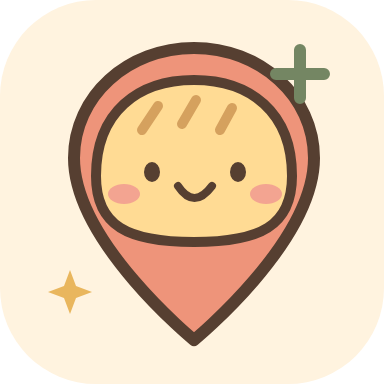
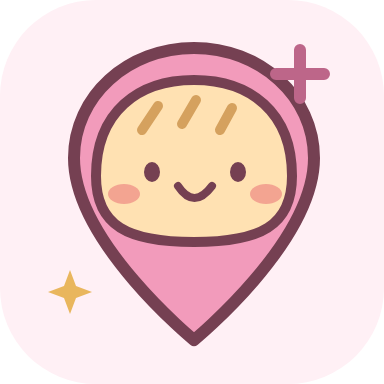
Redesign pink picnic UI with clear steps and playful motion

diff --git a/style.css b/style.css
@@ -1,2 +1,8 @@
 @import url('https://fonts.googleapis.com/css2?family=Noto+Sans+TC:wght@400;500;600;700;800;900&display=swap');
 :root{--ink:#45382f;--cream:#fff8ee;--orange:#e8784d;--pink:#f8d8cf;--green:#647c57;--line:#eadfce}*{box-sizing:border-box}body{margin:0;background:#eee7df;color:var(--ink);font-family:'Noto Sans TC',system-ui,sans-serif;font-size:14px}button,input,select{font:inherit}button,a,input,select{-webkit-tap-highlight-color:transparent}button{cursor:pointer;color:inherit}button:focus-visible,a:focus-visible,input:focus-visible,select:focus-visible{outline:3px solid #72985e;outline-offset:3px}.app{max-width:540px;margin:auto;background:var(--cream);min-height:100vh;box-shadow:0 0 80px #5b49351a}header{display:flex;align-items:center;justify-content:space-between;padding:25px 24px 8px}.brand{color:var(--ink);text-decoration:none;font-size:19px;font-weight:900;letter-spacing:.5px;position:relative}.logo{display:inline-grid;place-items:center;width:32px;height:32px;border:2px solid var(--ink);border-radius:11px;background:#ffd987;font-size:25px;transform:rotate(-9deg);margin-right:5px}.tiny{display:block;font-size:8px;letter-spacing:2px;margin-left:45px;margin-top:-1px;font-weight:700}.round{border:1px solid #e7dccc;border-radius:50%;width:43px;height:43px;background:#fffdf7;font-size:28px}main{padding:22px 23px 105px}.eyebrow{font-size:11px;letter-spacing:1px;color:#917864}.hero{display:flex;align-items:center;justify-content:space-between;position:relative;padding:5px 0 15px}h1{font-size:36px;line-height:1.45;letter-spacing:1px;margin:10px 0 8px;font-weight:900}h1 span{color:var(--orange);position:relative;white-space:nowrap}h1 span:after{content:'';position:absolute;bottom:-2px;left:0;width:100%;height:6px;border-top:2px solid #e8784d;border-radius:50%}.hero p{font-size:12px;line-height:1.9;color:#988371}.mascot{position:relative;width:150px;height:180px;margin-right:4px;flex-shrink:0}.bun{position:absolute;left:16px;top:24px;width:125px;height:105px;border:2.5px solid var(--ink);border-radius:65% 65% 40% 40%;background:#f8ce86;transform:rotate(10deg);box-shadow:inset -7px -7px #edb967}.bun:before{content:'﹏';position:absolute;top:1px;left:39px;font-size:36px;color:#aa7645}.bun i{position:absolute;top:52px;width:7px;height:9px;background:var(--ink);border-radius:50%;left:37px}.bun i:nth-child(2){left:83px}.bun b{position:absolute;left:56px;top:51px;font-size:26px;font-weight:400}.bun em{position:absolute;left:21px;top:65px;width:17px;height:9px;border-radius:50%;background:#ee9f8a;box-shadow:74px 0 #ee9f8a}.plate{position:absolute;width:152px;height:35px;top:115px;background:#d6e2c3;border:2px solid var(--ink);border-radius:50%;z-index:0}.bun{z-index:1}.spark{position:absolute;right:-1px;top:0;color:var(--orange);font-size:28px}.sticker{position:absolute;bottom:4px;left:22px;transform:rotate(-8deg);font-size:11px;background:#fae3a8;padding:5px 11px;border-radius:6px}.location{border:1px solid #e6ddcb;border-radius:18px;background:#f1efdf;width:100%;display:flex;align-items:center;gap:12px;padding:14px 16px;text-align:left}.location>span:first-child{font-size:28px;color:var(--green)}.location strong{display:block;font-size:13px}.location small{display:block;font-size:10px;color:#7f7b66;margin-top:4px}.arrow{margin-left:auto;font-size:20px}.demo-note{font-size:10px;line-height:1.8;color:#927c68;margin:15px 0 12px}.demo-note span{border:1px solid #dec5ac;border-radius:5px;padding:2px 5px;margin-right:5px}.search{display:flex;gap:9px;background:#fffef9;border:1.5px solid #e5d7c4;border-radius:16px;padding:7px 7px 7px 14px;box-shadow:0 4px 0 #efe4d5}.search>span{font-size:26px}.search input{width:100%;min-width:0;border:0;outline:none;background:none;font-size:12px;color:var(--ink)}.search button{border:0;border-radius:11px;background:var(--orange);color:white;white-space:nowrap;padding:10px 14px;font-size:12px;font-weight:700}.categories{display:flex;gap:9px;overflow-x:auto;scrollbar-width:none;margin:22px -23px 18px;padding:0 23px 5px}.categories button{flex-shrink:0;display:flex;flex-direction:column;gap:8px;align-items:center;border:1px solid #eaddca;background:#fffdf7;padding:12px 10px 10px;border-radius:17px;font-size:10px;min-width:74px}.categories button span{font-size:25px}.categories button.active{background:#f8dace;border:1.5px solid #d87c5c;box-shadow:0 3px 0 #e7b7a3}.filters{display:grid;grid-template-columns:1fr 1fr 1fr;gap:8px}.filters label{font-size:10px;color:#8c7867;min-width:0}.filters select{display:block;width:100%;margin-top:7px;padding:10px 4px;border:1px solid #e1d6c3;border-radius:10px;background:#fffdf7;color:var(--ink);font-size:11px;min-height:43px}.toggle-row{display:flex;justify-content:space-between;align-items:center;padding:18px 0 6px}.switch-label{display:flex;align-items:center;gap:7px;font-size:11px;cursor:pointer}.switch-label input{position:absolute;opacity:0}.switch{width:30px;height:18px;border-radius:20px;background:#cfc9be;position:relative}.switch:after{content:'';position:absolute;width:12px;height:12px;background:white;border-radius:50%;left:3px;top:3px;transition:transform .2s}.switch-label input:checked+.switch{background:var(--green)}.switch-label input:checked+.switch:after{transform:translateX(12px)}.switch-label input:focus-visible+.switch{outline:3px solid #e8784d}.toggle-row>button{border:0;background:none;color:#99816a;font-size:10px;min-height:40px}.results-heading{display:flex;align-items:center;justify-content:space-between;margin:17px 0}h2{font-size:19px;letter-spacing:.5px;margin:0}h2 span{color:var(--orange);font-size:23px}.results-heading p{font-size:10px;color:#9a8570;margin:6px 0 0}.sort{font-size:10px;color:#8e7b69}.card{border:1px solid #e5d9c5;border-radius:24px;background:#fffefa;overflow:hidden;margin-bottom:20px;box-shadow:0 5px 0 #ece0ce;animation:pop .25s ease}.art{height:135px;position:relative;overflow:hidden;display:flex;justify-content:center;align-items:center;background:var(--artbg)}.art:before,.art:after{content:'';position:absolute;border:1px dashed #ffffffa8;border-radius:50%;width:180px;height:180px;left:-100px;top:-90px}.art:after{left:auto;right:-100px;top:55px}.art .food{font-size:75px;filter:drop-shadow(0 6px 0 #5c3e2019);transform:rotate(-8deg);transition:transform .3s}.art:hover .food{transform:rotate(7deg) scale(1.08)}.art .caption{position:absolute;bottom:12px;left:15px;font-size:9px;color:#78604d;background:#fff8ecca;padding:4px 8px;border-radius:5px}.distance{position:absolute;left:15px;top:14px;border-radius:30px;background:#fffdf6;padding:6px 11px;font-size:11px;font-weight:700;box-shadow:0 2px 0 #0000000a}.heart{position:absolute;right:13px;top:12px;background:#fffdf5;border:0;border-radius:50%;width:36px;height:36px;font-size:24px;color:#bc624e}.card-body{padding:18px}.card-title{display:flex;align-items:center;justify-content:space-between;gap:8px}.card h3{font-size:20px;margin:0;font-weight:800}.status{font-size:9px;padding:5px 7px;border-radius:6px;color:#586f4a;background:#edf2e4;white-space:nowrap}.status.closed{color:#947a61;background:#f1e6d9}.tags{font-size:10px;color:#9b8270;margin:7px 0 15px}.price-row{display:flex;justify-content:space-between;align-items:center;padding:13px;background:#fff6e9;border-radius:12px;gap:8px}.meal{font-size:11px;line-height:1.8}.meal small{display:block;font-size:9px;color:#a08c76}.price{font-size:24px;color:#bf6843;white-space:nowrap;font-weight:800}.facts{display:grid;grid-template-columns:1fr 1fr;gap:7px;font-size:10px;color:#8d7a68;margin:14px 0}.facts b{font-weight:500;color:#5c5749;display:block;margin-top:4px}.actions{display:flex;gap:8px}.actions button,.actions a{flex:1;min-height:44px;border-radius:12px;border:1px solid #e6dac7;background:#fffdf7;display:flex;align-items:center;justify-content:center;text-decoration:none;font-size:12px;font-weight:600;color:var(--ink)}.actions .go{background:var(--green);color:white;border-color:var(--green)}.swap{width:100%;background:none;border:0;padding:12px 0 0;color:#9c836d;font-size:10px;min-height:35px}.real-search{display:flex;align-items:flex-start;gap:12px;background:#f4e7dc;padding:18px;border-radius:18px;margin-top:25px}.real-search>span{font-size:28px}.real-search h3{font-size:13px;margin:0 0 7px}.real-search p{font-size:11px;line-height:1.8;color:#947f6d;margin:0}.real-search button{background:none;border:0;padding:10px 0 0;font-size:11px;color:#a55e40;font-weight:700;min-height:40px}footer{text-align:center;font-size:10px;line-height:1.9;color:#aa9580;padding-top:35px}footer span{font-size:9px}.bottom{position:fixed;bottom:0;left:50%;transform:translateX(-50%);width:min(100%,540px);display:flex;justify-content:space-around;backdrop-filter:blur(20px);background:#fff9efed;border-top:1px solid #eadcc7;padding:10px 20px max(12px,env(safe-area-inset-bottom));z-index:5}.bottom button{border:0;background:none;display:flex;flex-direction:column;align-items:center;gap:4px;font-size:24px;width:90px;color:#a18b74}.bottom button span{font-size:9px}.bottom button.selected{color:#b66546}.empty{text-align:center;padding:30px 15px;border:1px dashed #decab0;border-radius:20px}.empty>span{font-size:42px}.empty h3{font-size:17px}.empty p{font-size:12px;color:#8a7967}.empty button{border:0;background:#e8784d;color:white;border-radius:12px;padding:13px;font-size:12px}.empty[hidden]{display:none}dialog{border:0;border-radius:25px 25px 0 0;max-width:540px;width:100%;max-height:88dvh;margin:auto auto 0;padding:28px 24px 35px;background:var(--cream);color:var(--ink)}dialog::backdrop{background:#3e302a70;backdrop-filter:blur(3px)}.handle{width:38px;height:4px;border-radius:10px;background:#d3c3ad;margin:-15px auto 25px}.close{position:absolute;right:14px;top:12px;width:40px;height:40px;border:0;background:none;font-size:30px}.sheet-head{font-size:25px;margin:0 0 7px}.sheet-note{font-size:11px;line-height:1.8;color:#9b7e64}.menu-row{display:flex;justify-content:space-between;padding:16px 2px;border-bottom:1px solid #e6dbc9;font-size:14px}.sheet-block{padding:16px;background:white;border-radius:14px;margin-top:15px;font-size:12px;line-height:2}.sheet-link{display:block;text-align:center;text-decoration:none;background:var(--green);color:white;padding:15px;border-radius:12px;margin-top:20px}#toast{position:fixed;bottom:105px;left:50%;transform:translateX(-50%) translateY(15px);background:#493d32;color:white;border-radius:13px;padding:12px 17px;font-size:12px;z-index:20;opacity:0;pointer-events:none;max-width:90%;text-align:center;transition:.2s}#toast.show{opacity:1;transform:translateX(-50%) translateY(0)}@keyframes pop{from{opacity:0;transform:translateY(6px)}to{opacity:1;transform:translateY(0)}}@media(min-width:760px){.app{margin:24px auto;border:1px solid #e4d4be;border-radius:32px 32px 0 0;overflow:hidden}h1{font-size:42px}.mascot{margin-right:15px}main{padding-left:28px;padding-right:28px}}@media(prefers-reduced-motion:reduce){*{animation:none!important;transition:none!important}}
+
+/* Pink picnic, v2 — clearer steps, gentle motion, thumb-friendly controls. */
+:root{--ink:#613c4e;--cream:#fff4f7;--orange:#cb537f;--pink:#f7d5e2;--green:#b34a75;--line:#efd3df}body{background:#f6dfeb;color:var(--ink)}.app{background:radial-gradient(circle at 90% 4%,#ffe1ed 0,transparent 330px),#fff5f8;box-shadow:0 12px 80px #a9557d16}header{padding:20px 22px 8px}.header-tools{display:flex;gap:8px}.brand{font-size:18px}.logo{border:0;transform:rotate(-6deg);border-radius:9px;width:35px;height:35px;background:none}.tiny{font-size:7px;color:#a46c85;letter-spacing:2.5px}.round{border-color:#e8c6d6;background:#fffafb;color:#aa4f78;width:40px;height:40px}.motion-control{font-size:22px}main{padding:18px 20px 110px}.eyebrow{font-size:9px;color:#ad718c;letter-spacing:2px;display:flex;align-items:center;gap:7px}.mini-heart{font-size:13px;color:#cb537f;display:inline-block;animation:heartBeat 4s infinite}.hero{padding:8px 0 18px;min-height:154px}.hero>div:first-child{z-index:1}h1{font-size:28px;line-height:1.6;margin:9px 0;letter-spacing:.2px}h1 span{color:#c54a7c}h1 span:after{border-color:#eb9dbb;bottom:-1px}.hero p{font-size:10px;color:#9e7286;margin:12px 0 0}.mascot{border:0;background:none;position:relative;width:120px;height:145px;margin-right:-1px;flex-shrink:0;padding:0;animation:floatBun 4.8s ease-in-out infinite}.bun{width:99px;height:82px;left:13px;top:22px;border-color:#754052;border-width:2px;background:#ffe0b3;box-shadow:inset -5px -5px #f3c88f;transform:rotate(9deg)}.bun:before{font-size:29px;top:0;left:29px}.bun i{top:40px;left:27px;width:6px;height:7px;background:#754052}.bun i:nth-child(2){left:66px}.bun b{top:38px;left:44px;font-size:22px;color:#754052}.bun em{top:51px;left:14px;width:15px;height:8px;background:#ef9eb4;box-shadow:61px 0 #ef9eb4}.plate{width:121px;height:28px;top:92px;left:0;border-color:#8b4f68;background:#f2c5d8}.sticker{bottom:0;left:20px;color:#995374;background:#ffe3ed;border:1px solid #e8b8cc;padding:5px 9px;font-size:9px}.spark{color:#d76a99;right:-1px;font-size:23px;animation:twinkle 3.3s infinite}.step-label{display:flex;align-items:center;gap:8px;font-size:12px;font-weight:700;margin-bottom:11px;letter-spacing:.3px}.step-label>b,.step-number{display:inline-grid;place-items:center;background:#f6d4e2;color:#9d4066;width:24px;height:24px;border-radius:8px;font-size:10px}.location{background:#fffaff;border:1.5px solid #edcadd;box-shadow:0 3px 0 #f4dce8;border-radius:16px;padding:12px 14px;margin-bottom:16px}.location>span:first-child{color:#b34a75;background:#f8e2ed;border-radius:12px;width:38px;height:38px;text-align:center;line-height:38px;font-size:27px}.location strong{font-size:12px}.location small{font-size:10px;color:#956c83}.arrow{color:#b34a75}.demo-note{font-size:10px;color:#96677e;margin:14px 0;line-height:1.9}.demo-note span{background:#fff7fb;color:#a24f76;border-color:#dfadc4}.finder-panel{background:#ffffffbf;border:1px solid #efd3df;border-radius:23px;padding:17px 14px 15px;box-shadow:0 5px 0 #f5e2eb}.finder-panel>.step-label{margin:0 0 13px}.search{background:#fffafd;border:1.5px solid #eab4ce;box-shadow:0 3px 0 #f5dce8;border-radius:13px;gap:5px;padding:5px 5px 5px 10px}.search>span{color:#ba5b83}.search input{font-size:11px}.search input::placeholder{color:#ab8798}.search button{background:#be4e7c;border-radius:9px;min-width:53px;min-height:40px;font-size:11px}.categories{display:grid;grid-template-columns:repeat(5,minmax(0,1fr));gap:5px;margin:18px 0;padding:0 0 4px;overflow:visible}.categories button{min-width:0;padding:10px 1px 8px;gap:7px;font-size:9px;border:1px solid #efd6e3;border-radius:13px;background:#fff9fc;transition:transform .18s,background .18s}.categories button span{font-size:23px;line-height:1.2}.categories button.active{background:#fce0ed;border:1.5px solid #cd759a;box-shadow:0 3px 0 #e8b2ca;color:#a13764;font-weight:700}.filter-intro{font-size:11px;font-weight:700;margin:3px 0 10px;display:flex;justify-content:space-between}.filter-intro span{font-size:9px;color:#a1748b;font-weight:400}.filters{gap:7px}.filters label{font-size:9px;color:#93637a}.filters select{border:1px solid #e8c8d8;background:#fffafd;color:#603c4d;font-size:10px;padding:9px 3px;min-height:43px}.toggle-row{padding:12px 0 3px}.switch-label{font-size:10px}.switch-label input:checked+.switch{background:#bc5482}.toggle-row>button{color:#a2738a}.show-results{display:flex;align-items:center;justify-content:center;gap:6px;width:100%;min-height:46px;border:0;border-radius:13px;background:#bf4f7c;color:white;font-weight:700;font-size:12px;box-shadow:0 4px 0 #9b3d64}.show-results>span{background:#ffffff24;padding:2px 7px;border-radius:6px}.show-results>b{margin-left:auto;font-size:18px;font-weight:400}.show-results:before{content:'✧';font-size:17px;margin-right:auto}.active-filters{display:flex;gap:5px;margin-top:20px;flex-wrap:wrap}.active-filters span{border:1px solid #e4bed0;border-radius:20px;color:#9f5378;font-size:9px;padding:4px 8px;background:#fffafd}.results-heading{scroll-margin-top:15px;margin:16px 0}.results-heading h2{display:flex;gap:7px;align-items:center;font-size:17px}.results-heading h2>span:last-child{color:#cb6d96}.results-heading p{color:#95677e;font-size:9px}.sort{font-size:9px;color:#966c82}.card{border:1px solid #ecc9da;border-radius:22px;box-shadow:0 5px 0 #efdbe6;margin-bottom:20px;animation:cardArrive .3s ease-out}.card:nth-child(2){animation-delay:.04s}.card:nth-child(3){animation-delay:.08s}.art{height:118px;background:radial-gradient(ellipse at center,#fff6f9 0,transparent 65%),linear-gradient(140deg,#fce2ed,var(--artbg));background-blend-mode:normal}.art:before,.art:after{border-color:#fff9;opacity:.8}.art .food{font-size:66px;filter:drop-shadow(0 5px 0 #ad507018)}.distance{background:#fffcfe;color:#97476e;font-size:10px;border:1px solid #ecc6d8}.heart{width:38px;height:38px;color:#b94c7c;background:#fff9fd;box-shadow:0 2px 6px #a6517520}.heart[aria-pressed=true]{background:#c45481;color:white}.art .caption{background:#fff7fbcd;color:#936b7e;font-size:8px}.card-body{padding:16px}.card-title{align-items:flex-start}.card h3{font-size:18px;line-height:1.6}.status{font-size:8px;color:#4d694b;background:#eaf3e7;line-height:1.8;margin-top:3px}.tags{font-size:10px;color:#9c6e83;margin:5px 0 13px}.price-row{background:#fff0f5;padding:12px;border-radius:12px}.meal{font-size:11px;color:#6f4358}.meal small{color:#a36e89;font-size:9px}.price{color:#b74475;font-size:26px}.facts{font-size:10px;color:#9a7388;gap:8px}.facts>div{background:#fcf7fa;border-radius:9px;padding:8px}.facts b{color:#79556a;font-size:10px;line-height:1.7}.actions button,.actions a{border:1px solid #e4bdd0;background:#fff9fc;color:#91446a;border-radius:11px;min-height:45px;font-size:11px}.actions .go{background:#b64b79;border-color:#b64b79;color:white}.swap{font-size:10px;color:#9d5f7e;padding-top:13px;min-height:40px}.real-search{background:#f7e0ec;border:1px solid #eac3d7;border-radius:20px}.real-search p{color:#95667f}.real-search button{color:#a24470}.real-search h3{font-size:12px}footer{color:#a97790}footer span{color:#a58194}.bottom{background:#fff8fceb;border-color:#edcade;border-radius:21px 21px 0 0;box-shadow:0 -6px 24px #c0648c0c;padding-top:10px}.bottom button{color:#ad7c94;border-radius:13px;font-size:22px;min-height:46px}.bottom button span{font-size:10px}.bottom button.selected{color:#ab3d6c;background:#f9e4ed}.empty{border-color:#d99eba;background:#fff7fb}.empty button{background:#b94c7b}.empty p{color:#966b82}dialog{background:#fff7fb;color:#613c4e;border:1px solid #ecc5d8;border-bottom:0;padding:28px 22px 30px;border-radius:26px 26px 0 0;animation:sheetUp .22s ease-out}dialog::backdrop{background:#67384d65;backdrop-filter:blur(4px)}.handle{background:#e5b8cc}.close{color:#a74a76;min-width:44px;min-height:44px}.sheet-head{font-size:22px;padding-right:18px}.sheet-note{color:#9a6980}.menu-row{border-color:#edcfde}.menu-row b{color:#b24a77}.sheet-block{border:1px solid #f0d9e4;background:#fffdfe}.sheet-link{background:#b54b79;min-height:48px}.sheet-block summary{cursor:pointer;min-height:30px}#toast{background:#7c3c5b;box-shadow:0 4px 20px #ac618f30}.sprinkle{position:fixed;z-index:99;pointer-events:none;font-size:18px;animation:sprinkleOut .8s ease-out forwards;line-height:1}.boop{animation:boopBun .5s ease!important}button{touch-action:manipulation}button:not(:disabled):active,.actions a:active{transform:scale(.965)}button:disabled{opacity:.7;cursor:wait}button:focus-visible,a:focus-visible,input:focus-visible,select:focus-visible{outline:3px solid #b44f7b;outline-offset:3px}.search:focus-within{box-shadow:0 0 0 3px #f2c9dc}.switch-label input:focus-visible+.switch{outline-color:#b44f7b}.quiet-motion *{animation:none!important;transition:none!important;scroll-behavior:auto!important}@keyframes floatBun{0%,100%{transform:translateY(0) rotate(-2deg)}50%{transform:translateY(-5px) rotate(1deg)}}@keyframes twinkle{0%,80%,100%{opacity:1;transform:scale(1)}90%{opacity:.6;transform:scale(.7)}}@keyframes heartBeat{0%,86%,100%{transform:scale(1)}90%{transform:scale(1.2)}94%{transform:scale(1)}}@keyframes sprinkleOut{0%{opacity:1;transform:translate(-50%,-50%) scale(.5)}100%{opacity:0;transform:translate(calc(-50% + var(--dx)),calc(-50% + var(--dy))) rotate(var(--rot)) scale(1.1)}}@keyframes boopBun{0%,100%{transform:scale(1)}35%{transform:scale(.9) rotate(-8deg)}70%{transform:scale(1.07) rotate(5deg)}}@keyframes cardArrive{from{transform:translateY(6px);opacity:.5}to{transform:translateY(0);opacity:1}}@keyframes sheetUp{from{transform:translateY(18px);opacity:.4}to{transform:translateY(0);opacity:1}}@media(min-width:760px){.app{border-color:#edc7da}.hero h1{font-size:34px}.mascot{margin-right:18px;width:140px}.finder-panel{padding:20px}.categories button{font-size:10px}.categories button span{font-size:26px}.filters label,.filters select{font-size:11px}}@media(max-width:350px){header{padding-left:16px;padding-right:16px}.brand{font-size:16px}.tiny{font-size:6px}.header-tools{gap:5px}.round{width:36px;height:36px}main{padding-left:15px;padding-right:15px}h1{font-size:23px}.mascot{transform:scale(.9);width:103px}.hero p{font-size:9px}.categories button{font-size:8px}.filters select{font-size:9px}.card h3{font-size:16px}.sort{font-size:8px}.results-heading h2{font-size:15px}}@media(prefers-reduced-motion:reduce){*,*:before,*:after{animation:none!important;transition:none!important;scroll-behavior:auto!important}.sprinkle{display:none}}
+.hero{overflow:hidden}.mascot .plate{max-width:100%}@media(max-width:350px){.mascot .bun{width:90px;left:7px}.mascot .bun i:nth-child(2){left:63px}.mascot .bun em{box-shadow:55px 0 #ef9eb4}.mascot .sticker{left:9px}}
+/* Keep the hit target still; animate only the illustration inside it. */
+.mascot{animation:none}.mascot .bun{animation:floatBun 4.8s ease-in-out infinite}.quiet-motion .mascot .bun{animation:none}@media(prefers-reduced-motion:reduce){.mascot .bun{animation:none}}

diff --git a/app.js b/app.js
@@ -13,18 +13,29 @@ function total(p){return p.price+($('dining').value==='dinein'?p.dineExtra:0)}
 function routeSearch(q){const url=new URL('https://www.google.com/maps/search/');url.searchParams.set('api','1');url.searchParams.set('query',q+(position?' near '+position.latitude+','+position.longitude:''));return url.href}
 function render(){const query=$('query').value.trim().toLowerCase(),budget=+$('budget').value,minutes=+$('minutes').value;
 const list=data.filter(p=>(category==='all'||p.category===category)&&(!query||query.split(/\s+/).every(w=>(p.name+p.keywords+p.category).toLowerCase().includes(w)))&&(!budget||total(p)<=budget)&&p.minutes<=minutes&&(!$('openOnly').checked||p.open)&&(!favoritesOnly||favorites.includes(p.id))&&!hidden.has(p.id)).sort((a,b)=>a.minutes-b.minutes);
-$('resultHeading').innerHTML=favoritesOnly?'我的口袋收藏 <span>♡</span>':'今天的口袋名單 <span>✿</span>';$('resultSummary').textContent=`${list.length} 家示範店家 · 依示範步行時間排序`;$('empty').hidden=list.length>0;
-$('cards').innerHTML=list.slice(0,3).map(p=>`<article class="card"><div class="art" style="--artbg:${p.color}"><span class="distance">🚶 ${p.minutes} 分鐘</span><span class="food" aria-hidden="true">${p.emoji}</span><span class="caption">食物插畫 · 非店家照片</span><button class="heart" data-favorite="${p.id}" aria-label="${favorites.includes(p.id)?'取消收藏':'收藏'}${p.name}" aria-pressed="${favorites.includes(p.id)}">${favorites.includes(p.id)?'♥':'♡'}</button></div><div class="card-body"><div class="card-title"><h3>${p.name}</h3><span class="status ${p.open?'':'closed'}">${p.open?'● 營業至 '+p.close:'已打烊'}</span></div><p class="tags">${p.tags} · 示範店家</p><div class="price-row"><div class="meal">${p.meal}<small>${$('dining').value==='dinein'&&p.dineExtra?'含必要飲品 $'+p.dineExtra:'一人份組合'} · 示範價格</small></div><span class="price">$${total(p)}</span></div><div class="facts"><div>低消<b>${p.min.replace('示範：','')}</b></div><div>等候狀況<b>未知 · 不保證免排隊</b></div></div><div class="actions"><button data-menu="${p.id}">📋 看菜單</button><button class="go" data-route="${p.id}">🧭 找真店</button></div><button class="swap" data-swap="${p.id}">不心動？換一家看看 ↻</button></div></article>`).join('');
+$('resultHeading').innerHTML=favoritesOnly?'我的口袋收藏 <span>♡</span>':'<span class="step-number">03</span> 心動口袋名單 <span>✿</span>';$('resultSummary').textContent=`${list.length} 家示範店家 · 依示範步行時間排序`;$('empty').hidden=list.length>0; const nextRange=[10,15,20,30].find(n=>n>minutes); $('expand').textContent=nextRange?'擴大至 '+nextRange+' 分鐘 →':'已到 30 分鐘，請調整其他條件'; $('expand').disabled=!nextRange; $('resultCount').textContent=list.length; $('showResults').setAttribute('aria-label','查看 '+list.length+' 家示範推薦'); $('activeFilters').replaceChildren(...[category==='all'?'全部口味':category,budget?'$'+budget+'內':'預算不限',minutes+'分內',$('dining').value==='dinein'?'內用':'外帶'].map(s=>{let el=document.createElement('span');el.textContent=s;return el}));
+$('cards').innerHTML=list.slice(0,3).map(p=>`<article class="card"><div class="art" style="--artbg:${p.color}"><span class="distance">🚶 ${p.minutes} 分鐘</span><span class="food" aria-hidden="true">${p.emoji}</span><span class="caption">食物插畫 · 非店家照片</span><button class="heart" data-favorite="${p.id}" aria-label="${favorites.includes(p.id)?'取消收藏':'收藏'}${p.name}" aria-pressed="${favorites.includes(p.id)}">${favorites.includes(p.id)?'♥':'♡'}</button></div><div class="card-body"><div class="card-title"><h3>${p.name}</h3><span class="status ${p.open?'':'closed'}">${p.open?'● 營業至 '+p.close:'已打烊'}</span></div><p class="tags">${p.tags} · 示範店家</p><div class="price-row"><div class="meal">${p.meal}<small>${$('dining').value==='dinein'&&p.dineExtra?'含必要飲品 $'+p.dineExtra:'一人份組合'} · 示範價格</small></div><span class="price">$${total(p)}</span></div><div class="facts"><div>🪙 低消<b>${p.min.replace('示範：','')}</b></div><div>⏱ 等候狀況<b>未知 · 不保證免排隊</b></div></div><div class="actions"><button data-menu="${p.id}">📋 看菜單</button><button class="go" data-route="${p.id}">🧭 地圖找店</button></div><button class="swap" data-swap="${p.id}">不心動？換一家看看 ↻</button></div></article>`).join('');
 $('saved').textContent=favoritesOnly?'♥':'♡';$('saved').setAttribute('aria-pressed',favoritesOnly);$('explore').classList.toggle('selected',!favoritesOnly);$('bottomSaved').classList.toggle('selected',favoritesOnly);
 }
 function sheet(html){$('sheetContent').innerHTML=html;$('sheet').showModal()}
 function menu(p){sheet(`<h2 class="sheet-head">${p.emoji} ${p.name}</h2><p class="sheet-note">示範菜單 · 所有品項與價格皆為虛構，不是店家報價。</p>${p.items.map(([name,price])=>`<div class="menu-row"><span>${name}</span><b>$${price}</b></div>`).join('')}<div class="sheet-block"><b>低消與一人花費</b><br>${p.min}<br>${$('dining').value==='dinein'?'內用':'外帶'}推薦組合總額 $${total(p)}${$('dining').value==='dinein'&&p.dineExtra?'（已含必要飲品）':''}<br>等候時間：未連接即時資料</div><details class="sheet-block"><summary>停車與資料來源</summary>${p.parking}<br>此店為互動示範，不提供真實地址、電話與導航。</details><a class="sheet-link" target="_blank" rel="noopener" href="${routeSearch(p.category)}">到 Google Maps 搜尋真實${p.category} ↗</a>`)}
 $('cards').addEventListener('click',e=>{let b=e.target.closest('button');if(!b)return;let id=b.dataset.favorite||b.dataset.menu||b.dataset.swap||b.dataset.route,p=data.find(x=>x.id===id);if(!p)return;if(b.dataset.favorite){favorites=favorites.includes(id)?favorites.filter(x=>x!==id):[...favorites,id];try{localStorage.setItem('pocket-bites-favorites',JSON.stringify(favorites))}catch{}render();toast(favorites.includes(id)?'已放進口袋 ♡':'已移出收藏')}else if(b.dataset.menu)menu(p);else if(b.dataset.route){sheet(`<h2 class="sheet-head">🧭 找真的好吃的</h2><p class="sheet-note">「${p.name}」是虛構示範店家，不能導航到不存在的店。</p><div class="sheet-block">接下來會打開 Google Maps，搜尋${position?'你的定位附近':'附近'}的「${p.category}」。營業、菜單與路程請以地圖結果確認。</div><a class="sheet-link" href="${routeSearch(p.category)}" target="_blank" rel="noopener">找附近${p.category} ↗</a>`)}else{hidden.add(id);render();toast('換個口味，其他條件幫你保留')}});
 document.querySelectorAll('[data-cat]').forEach(b=>b.addEventListener('click',()=>{category=b.dataset.cat;hidden.clear();document.querySelectorAll('[data-cat]').forEach(x=>{x.classList.toggle('active',x===b);x.setAttribute('aria-pressed',x===b)});render()}));
-['budget','minutes','dining','openOnly'].forEach(id=>$(id).addEventListener('change',()=>{hidden.clear();render()}));$('searchForm').addEventListener('submit',e=>{e.preventDefault();hidden.clear();render();$('cards').scrollIntoView({behavior:'smooth',block:'start'})});$('query').addEventListener('input',()=>{hidden.clear();render()});
+['budget','minutes','dining','openOnly'].forEach(id=>$(id).addEventListener('change',()=>{hidden.clear();render()}));$('searchForm').addEventListener('submit',e=>{e.preventDefault();hidden.clear();render();$('resultsTop').scrollIntoView({behavior:motionEnabled()?'smooth':'instant',block:'start'})});$('query').addEventListener('input',()=>{hidden.clear();render()});
 function setSaved(v){favoritesOnly=v;hidden.clear();render();$('resultHeading').scrollIntoView({behavior:'smooth',block:'center'})}$('saved').onclick=()=>setSaved(!favoritesOnly);$('bottomSaved').onclick=()=>setSaved(true);$('explore').onclick=()=>setSaved(false);
 $('reset').onclick=()=>{category='all';favoritesOnly=false;hidden.clear();$('query').value='';$('budget').value='200';$('minutes').value='10';$('dining').value='takeout';$('openOnly').checked=true;document.querySelectorAll('[data-cat]').forEach(x=>{x.classList.toggle('active',x.dataset.cat==='all');x.setAttribute('aria-pressed',x.dataset.cat==='all')});render();toast('已重設，重新找點快樂')};
 $('expand').onclick=()=>{let current=+$('minutes').value,next=[10,15,20,30].find(n=>n>current);if(next){$('minutes').value=next;hidden.clear();render();toast('擴大至 '+next+' 分鐘，其他條件不變')}else toast('已到 30 分鐘，試試調整其他條件或重設')};
 $('closeSheet').onclick=()=>$('sheet').close();$('sheet').addEventListener('click',e=>{if(e.target===$('sheet')){const r=$('sheet').getBoundingClientRect();if(e.clientY<r.top||e.clientX<r.left||e.clientX>r.right)$('sheet').close()}});
 $('locate').onclick=()=>{if(!navigator.geolocation){toast('這個瀏覽器不支援定位，請用手機瀏覽器開啟');return}$('locationTitle').textContent='正在找你的位置…';$('locate').disabled=true;navigator.geolocation.getCurrentPosition(p=>{position={latitude:p.coords.latitude,longitude:p.coords.longitude};$('locationTitle').textContent='定位成功，地圖搜尋可使用';$('locationText').textContent='僅用於真實地圖搜尋；下方仍為示範路程';$('locate').disabled=false;toast('定位成功！下方店家仍是示範資料')},e=>{$('locationTitle').textContent='定位未成功，點我重試';$('locationText').textContent=e.code===1?'請在瀏覽器設定允許定位，再試一次':'請確認 GPS 與網路後再試';$('locate').disabled=false;toast('未取得位置，不會猜測你的所在地')},{enableHighAccuracy:true,timeout:12000,maximumAge:60000})};
 $('realSearch').onclick=()=>window.open(routeSearch($('query').value.trim()||(category==='all'?'餐廳':category)),'_blank','noopener');$('about').onclick=()=>sheet('<h2 class="sheet-head">吃點可愛的 ☺</h2><p class="sheet-note">這是可以實際操作的手機網站原型。</p><div class="sheet-block">① 選心情、預算、時間與內用／外帶。<br>② 點菜單看品項，點愛心收藏。<br>③ 定位後，可跳到 Google Maps 找真實店家。<br>④ 沒有結果時，擴大時間或重設條件。</div><div class="sheet-block"><b>目前還沒接上的功能</b><br>即時餐廳搜尋、菜單更新、營業驗證、排隊資訊及 Google 收藏同步。頁內所有店家與價格都是虛構示範。</div>');render();
+
+// Gentle feedback; motion can be disabled and respects system reduced-motion.
+let motionOn=true;try{motionOn=localStorage.getItem('pocket-motion')!=='off'}catch{}
+function motionEnabled(){return motionOn&&!matchMedia('(prefers-reduced-motion: reduce)').matches}
+function syncMotion(){document.body.classList.toggle('quiet-motion',!motionOn);$('motionToggle').setAttribute('aria-pressed',String(motionOn));$('motionToggle').setAttribute('aria-label',motionOn?'關閉小動畫':'開啟小動畫');$('motionToggle').textContent=motionOn?'✦':'☾'}
+function sprinkles(x,y,heart=false){if(!motionEnabled())return;for(let i=0;i<7;i++){const e=document.createElement('span');e.className='sprinkle';e.textContent=heart?['♥','♡','✧'][i%3]:['✦','✿','·'][i%3];e.style.left=x+'px';e.style.top=y+'px';e.style.setProperty('--dx',((i-3)*17)+'px');e.style.setProperty('--dy',(-35-Math.random()*50)+'px');e.style.setProperty('--rot',((i-3)*25)+'deg');e.style.color=['#e06495','#b76b9b','#ee96b4'][i%3];document.body.appendChild(e);e.addEventListener('animationend',()=>e.remove(),{once:true});setTimeout(()=>e.remove(),1100)}}
+$('motionToggle').onclick=()=>{motionOn=!motionOn;syncMotion();try{localStorage.setItem('pocket-motion',motionOn?'on':'off')}catch{}toast(motionOn?'小動畫開啟 ✦':'小動畫已關閉，安靜找吃的')};
+$('petBun').onclick=e=>{sprinkles(e.clientX,e.clientY,true);$('petBun').classList.remove('boop');void $('petBun').offsetWidth;if(motionEnabled())$('petBun').classList.add('boop');toast(['今天也要好好吃飯 ♡','讓餐包陪你找點快樂！','肚子說：可以開飯了～'][Math.floor(Math.random()*3)])};
+$('showResults').onclick=()=>$('resultsTop').scrollIntoView({behavior:motionEnabled()?'smooth':'instant',block:'start'});
+document.addEventListener('click',e=>{const b=e.target.closest('[data-favorite], [data-cat]');if(b){let r=b.getBoundingClientRect();sprinkles(r.left+r.width/2,r.top+r.height/2,!!b.dataset.favorite)}});
+syncMotion();

diff --git a/index.html b/index.html
@@ -1,15 +1,15 @@
-<!doctype html><html lang="zh-Hant"><head><meta charset="utf-8"><meta name="viewport" content="width=device-width,initial-scale=1,viewport-fit=cover"><meta name="theme-color" content="#fff8ee"><title>吃點可愛的｜口袋找吃小幫手</title><link rel="icon" type="image/svg+xml" href="icon.svg"><link rel="apple-touch-icon" href="icon-192.png"><link rel="manifest" href="manifest.webmanifest"><link rel="stylesheet" href="style.css"></head><body>
-<div class="app"><header><a class="brand" href="./" aria-label="首頁"><img class="logo" src="icon.svg" alt="餐包定位針標誌"> 吃點可愛的<span class="tiny">POCKET BITES</span></a><button class="round" id="saved" aria-label="只看收藏" aria-pressed="false">♡</button></header>
-<main><div class="eyebrow">肚子餓了，就跟著心情走 ✦</div><section class="hero"><div><h1>今天，<br>想吃哪種<span>快樂？</span></h1><p>口味、距離、小預算<br>幫你把選擇變簡單。</p></div><div class="mascot" aria-hidden="true"><div class="spark">✦</div><div class="bun"><i></i><i></i><b>⌣</b><em></em></div><div class="plate"></div><span class="sticker">一起吃飯吧！</span></div></section>
-<button id="locate" class="location"><span>⌖</span><div><strong id="locationTitle">用我的位置找吃的</strong><small id="locationText">點一下，允許定位就好</small></div><span class="arrow">↗</span></button>
-<div class="demo-note"><span>互動體驗版</span> 以下店家、菜單與路程皆為示範資料。</div>
-<form id="searchForm" class="search"><span>⌕</span><input id="query" aria-label="想吃的關鍵字" placeholder="想吃清爽的？還是罪惡炸雞…" autocomplete="off"><button aria-label="搜尋">找找</button></form>
+<!doctype html><html lang="zh-Hant"><head><meta charset="utf-8"><meta name="viewport" content="width=device-width,initial-scale=1,viewport-fit=cover"><meta name="theme-color" content="#fff0f5"><title>吃點可愛的｜口袋找吃小幫手</title><link rel="icon" type="image/svg+xml" href="icon.svg?v=2"><link rel="apple-touch-icon" href="icon-192.png"><link rel="manifest" href="manifest.webmanifest"><link rel="stylesheet" href="style.css?v=2"></head><body>
+<div class="app"><header><a class="brand" href="./" aria-label="首頁"><img class="logo" src="icon.svg?v=2" alt="餐包定位針標誌"> 吃點可愛的<span class="tiny">POCKET BITES</span></a><div class="header-tools"><button class="round motion-control" id="motionToggle" aria-label="關閉小動畫" aria-pressed="true">✦</button><button class="round" id="saved" aria-label="只看收藏" aria-pressed="false">♡</button></div></header>
+<main><div class="eyebrow"><span class="mini-heart">♥</span> YOUR LITTLE FOOD DATE</div><section class="hero"><div><h1>今天想吃點<br><span>可愛的快樂 ♡</span></h1><p>選個心情，找到剛剛好的那一口。</p></div><button class="mascot" id="petBun" aria-label="戳戳餐包小夥伴"><div class="spark">✦</div><div class="bun"><i></i><i></i><b>⌣</b><em></em></div><div class="plate"></div><span class="sticker">戳我一下 ♡</span></button></section>
+<div class="step-label"><b>01</b> 從你附近出發</div><button id="locate" class="location"><span>⌖</span><div><strong id="locationTitle">用我的位置找吃的</strong><small id="locationText">點一下，允許定位就好</small></div><span class="arrow">↗</span></button>
+<div class="demo-note"><span>示範體驗</span> 以下店家、菜單與路程皆為示範資料。</div>
+<section class="finder-panel" aria-label="找吃條件"><div class="step-label"><b>02</b> 今天想吃什麼？</div><form id="searchForm" class="search"><span>⌕</span><input id="query" aria-label="想吃的關鍵字" placeholder="輸入食物或心情，例如：甜的" autocomplete="off"><button aria-label="搜尋">搜尋</button></form>
 <div class="categories" role="group" aria-label="食物心情"><button data-cat="all" class="active" aria-pressed="true"><span>🍽</span>都想看看</button><button data-cat="清爽" aria-pressed="false"><span>🥗</span>清爽一點</button><button data-cat="炸物" aria-pressed="false"><span>🍗</span>炸的快樂</button><button data-cat="甜點" aria-pressed="false"><span>🍮</span>甜甜療癒</button><button data-cat="漢堡" aria-pressed="false"><span>🍔</span>漢堡時間</button></div>
-<div class="filters"><label>💰 每人預算<select id="budget"><option value="0">不限預算</option><option value="100">$100 內</option><option value="200" selected>$200 內</option><option value="300">$300 內</option></select></label><label>🚶 步行時間<select id="minutes"><option value="10" selected>10 分鐘內</option><option value="15">15 分鐘內</option><option value="20">20 分鐘內</option><option value="30">30 分鐘內</option></select></label><label>🥡 用餐方式<select id="dining"><option value="takeout">外帶</option><option value="dinein">內用</option></select></label></div>
+<div class="filter-intro">再選一點小條件 <span>選完即時更新</span></div><div class="filters"><label>💰 每人預算<select id="budget"><option value="0">不限預算</option><option value="100">$100 內</option><option value="200" selected>$200 內</option><option value="300">$300 內</option></select></label><label>🚶 步行時間<select id="minutes"><option value="10" selected>10 分鐘內</option><option value="15">15 分鐘內</option><option value="20">20 分鐘內</option><option value="30">30 分鐘內</option></select></label><label>🥡 用餐方式<select id="dining"><option value="takeout">外帶</option><option value="dinein">內用</option></select></label></div>
 <div class="toggle-row"><label class="switch-label"><input type="checkbox" id="openOnly" checked><span class="switch"></span>只看營業中</label><button id="reset">重設條件 ↺</button></div>
-<div class="results-heading"><div><h2 id="resultHeading">今天的口袋名單 <span>✿</span></h2><p id="resultSummary" aria-live="polite"></p></div><span class="sort">距離近的先 ↗</span></div><div id="cards"></div>
+<button id="showResults" class="show-results">看看推薦 <span id="resultCount">0</span> 家 <b>↓</b></button></section><div class="active-filters" id="activeFilters" aria-label="目前篩選條件"></div><div class="results-heading" id="resultsTop"><div><h2 id="resultHeading"><span class="step-number">03</span> 心動口袋名單 <span>✿</span></h2><p id="resultSummary" aria-live="polite"></p></div><span class="sort">近的先看 ↗</span></div><div id="cards"></div>
 <div class="empty" id="empty" hidden><span>🥺</span><h3>小肚子，還沒找到心動的</h3><p>試試放寬時間，其他條件幫你保留。</p><button id="expand">擴大步行範圍 ＋5 分鐘</button></div>
 <section class="real-search"><span>🧭</span><div><h3>準備找真實店家？</h3><p>開啟地圖搜尋。此體驗版不會假裝已查到即時菜單或排隊。</p><button id="realSearch">到 Google Maps 找附近 ↗</button></div></section>
 <footer>吃點可愛的 · 把找吃的，變成一件小確幸。<br><span>定位僅留在本頁記憶體，導航／地圖搜尋時才傳給 Google。<br>收藏保存在這台裝置；尚未連接 Google Maps 收藏同步。</span></footer></main>
 <nav class="bottom"><button id="explore" class="selected">⌕<span>找好吃的</span></button><button id="bottomSaved">♡<span>口袋收藏</span></button><button id="about">✧<span>怎麼使用</span></button></nav></div>
-<dialog id="sheet"><div class="handle"></div><button id="closeSheet" class="close" aria-label="關閉">×</button><div id="sheetContent"></div></dialog><div id="toast" role="status"></div><script src="app.js"></script></body></html>
+<dialog id="sheet"><div class="handle"></div><button id="closeSheet" class="close" aria-label="關閉">×</button><div id="sheetContent"></div></dialog><div id="toast" role="status"></div><script src="app.js?v=2"></script></body></html>

diff --git a/README.md b/README.md
@@ -9,3 +9,7 @@ Features: mood/keyword filters, budget including dine-in minimum, walking range,
 Publish: GitHub Pages from main / root.
 
 Edit the root HTML/CSS/JS files. Icons are a custom bun/location-pin SVG and PNG exports.
+
+## Pink picnic revision
+
+Pink visual hierarchy, three numbered steps, all five categories visible on narrow phones, live filter chips and result count, recommendation jump button, motion toggle, reduced-motion support, mascot boop and transient tap particles. The hit target stays still while its illustration floats.
